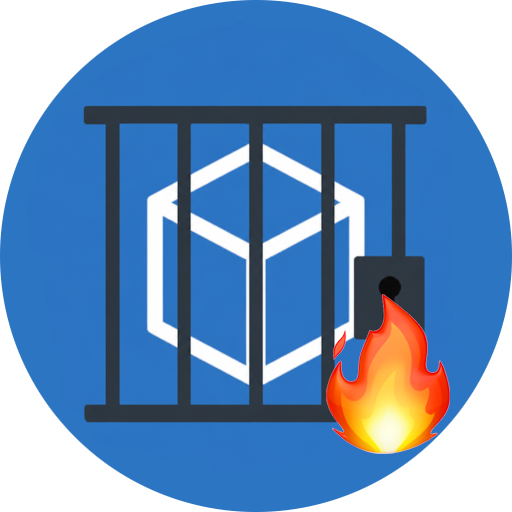
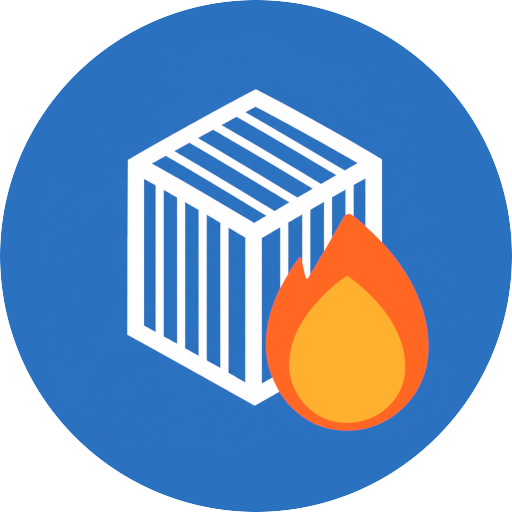
fix: probe socket path directly to detect live server and avoid EADDRINUSE respawn loop

diff --git a/src/serverSetup.ts b/src/serverSetup.ts
@@ -228,7 +228,8 @@ DISTRO_VSCODIUM_RELEASE="${release ?? ''}"
 SERVER_APP_NAME="${serverApplicationName}"
 SERVER_INITIAL_EXTENSIONS="${extensions}"
 SERVER_DATA_DIR="${serverDataDir}"
-SERVER_LISTEN_FLAG="${useSocketPath ? `--socket-path="$SERVER_DATA_DIR/.$DISTRO_COMMIT.sock"` : '--port=0'}"
+SERVER_SOCKETPATH="${useSocketPath ? '$SERVER_DATA_DIR/.$DISTRO_COMMIT.sock' : ''}"
+SERVER_LISTEN_FLAG="${useSocketPath ? `--socket-path="$SERVER_SOCKETPATH"` : '--port=0'}"
 SERVER_DATA_DIR_FLAG="${customInstallPath ? '--server-data-dir="$SERVER_DATA_DIR"' : ''}"
 SERVER_DIR="$SERVER_DATA_DIR/bin/$DISTRO_COMMIT"
 SERVER_SCRIPT="$SERVER_DIR/bin/$SERVER_APP_NAME"
@@ -354,40 +355,47 @@ fi
 # accepting connections.
 #
 # The server listens either on a TCP port (--port=0) or a unix socket
-# (--socket-path=). The log line "Extension host agent listening on <X>" carries
-# a numeric port in the first case and a socket path in the second, so both
-# forms must be handled or socket-path servers are never detected as alive and
-# every resolve respawns a duplicate that collides on the socket (EADDRINUSE).
+# (--socket-path=). Detection MUST NOT rely on the log file as the source of
+# truth for "is something listening": the fresh-start branch below runs
+# 'rm $SERVER_LOGFILE' before respawning, and a respawn that loses the
+# socket race writes only its EADDRINUSE crash to the now-empty log. From then
+# on the log has no "listening on" line, so a log-based check never sees the
+# live server and every attempt respawns + crashes forever.
+#
+# The socket path is deterministic and the socket file (held by the live
+# server) survives all of this, so for socket-path servers we probe the socket
+# DIRECTLY, independent of the log. Only the TCP case (--port=0), where the port
+# is dynamic and not knowable ahead of time, falls back to parsing the log.
 SERVER_RUNNING=
-if [[ -f $SERVER_LOGFILE ]]; then
+if [[ -n $SERVER_SOCKETPATH ]]; then
+    # Unix socket: probe the deterministic socket path directly. A stale socket
+    # file can linger after a crash, so confirm it is actually accepting
+    # connections rather than trusting its mere presence.
+    EXISTING_LISTEN="$SERVER_SOCKETPATH"
+    if command -v curl >/dev/null 2>&1; then
+        if curl --max-time 2 --silent --output /dev/null --unix-socket "$SERVER_SOCKETPATH" "http://localhost/version"; then
+            SERVER_RUNNING=1
+        fi
+    elif command -v nc >/dev/null 2>&1; then
+        if nc -z -U "$SERVER_SOCKETPATH" 2>/dev/null; then
+            SERVER_RUNNING=1
+        fi
+    elif [[ -S $SERVER_SOCKETPATH ]]; then
+        SERVER_RUNNING=1
+    fi
+elif [[ -f $SERVER_LOGFILE ]]; then
+    # TCP port: the port is dynamic, so it can only come from the log. Probe it
+    # to confirm the server is still up.
     EXISTING_LISTEN="$(grep -E 'Extension host agent listening on .+' $SERVER_LOGFILE 2>/dev/null | sed 's/.*Extension host agent listening on //' | tail -1)"
-    if [[ -n $EXISTING_LISTEN ]]; then
-        if [[ $EXISTING_LISTEN =~ ^[0-9]+$ ]]; then
-            # TCP port: probe it to confirm the server is still up.
-            EXISTING_PORT="$EXISTING_LISTEN"
-            if command -v curl >/dev/null 2>&1; then
-                if curl --max-time 2 --silent --output /dev/null "http://127.0.0.1:$EXISTING_PORT/version"; then
-                    SERVER_RUNNING=1
-                fi
-            elif (exec 3<>"/dev/tcp/127.0.0.1/$EXISTING_PORT") 2>/dev/null; then
-                exec 3>&- 3<&-
+    if [[ -n $EXISTING_LISTEN && $EXISTING_LISTEN =~ ^[0-9]+$ ]]; then
+        EXISTING_PORT="$EXISTING_LISTEN"
+        if command -v curl >/dev/null 2>&1; then
+            if curl --max-time 2 --silent --output /dev/null "http://127.0.0.1:$EXISTING_PORT/version"; then
                 SERVER_RUNNING=1
             fi
-        else
-            # Unix socket: confirm the socket exists and is accepting connections.
-            # A stale socket file can linger after a crash, so probe it rather
-            # than trusting its mere presence.
-            if command -v curl >/dev/null 2>&1; then
-                if curl --max-time 2 --silent --output /dev/null --unix-socket "$EXISTING_LISTEN" "http://localhost/version"; then
-                    SERVER_RUNNING=1
-                fi
-            elif command -v nc >/dev/null 2>&1; then
-                if nc -z -U "$EXISTING_LISTEN" 2>/dev/null; then
-                    SERVER_RUNNING=1
-                fi
-            elif [[ -S $EXISTING_LISTEN ]]; then
-                SERVER_RUNNING=1
-            fi
+        elif (exec 3<>"/dev/tcp/127.0.0.1/$EXISTING_PORT") 2>/dev/null; then
+            exec 3>&- 3<&-
+            SERVER_RUNNING=1
         fi
     fi
 fi
@@ -397,6 +405,12 @@ if [[ -z $SERVER_RUNNING ]]; then
     # Fresh start: this is the only place that resets the shared log/token files.
     # The reuse branch below must NOT touch them, or it would clobber the
     # token/port a concurrent resolve attempt already handed to the client.
+    #
+    # We only reach here when the socket probe above found NO live server, so any
+    # socket file still present is stale (left by a crashed server). Remove it, or
+    # the respawn below binds the same --socket-path and dies with EADDRINUSE
+    # against the dead socket, looping forever.
+    if [[ -n $SERVER_SOCKETPATH && -e $SERVER_SOCKETPATH ]]; then rm -f $SERVER_SOCKETPATH; fi
     if [[ -f $SERVER_LOGFILE ]]; then rm $SERVER_LOGFILE; fi
     if [[ -f $SERVER_TOKENFILE ]]; then rm $SERVER_TOKENFILE; fi
     touch $SERVER_TOKENFILE